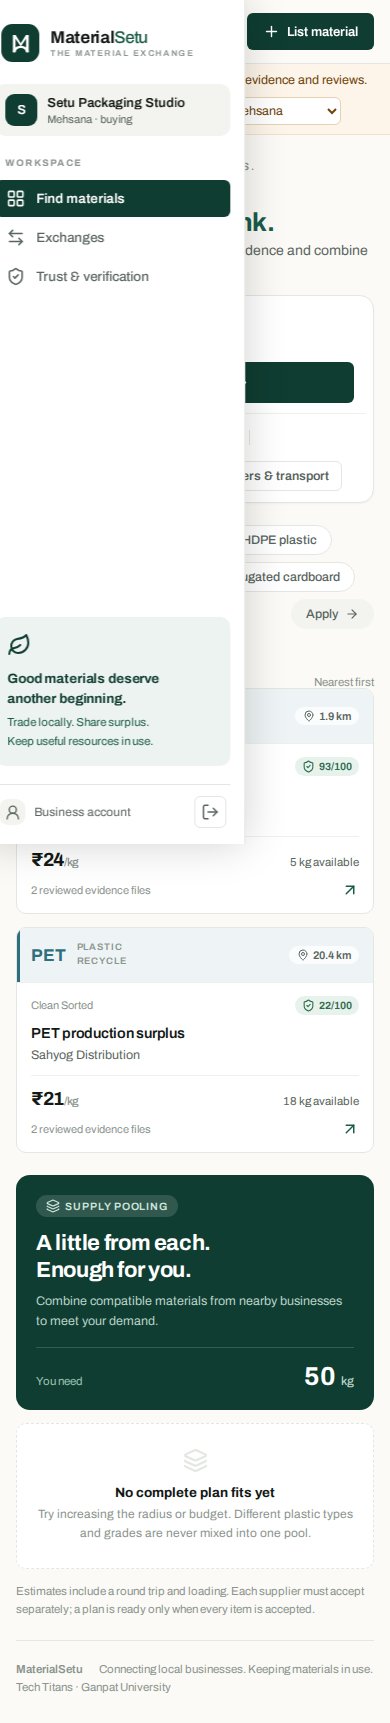
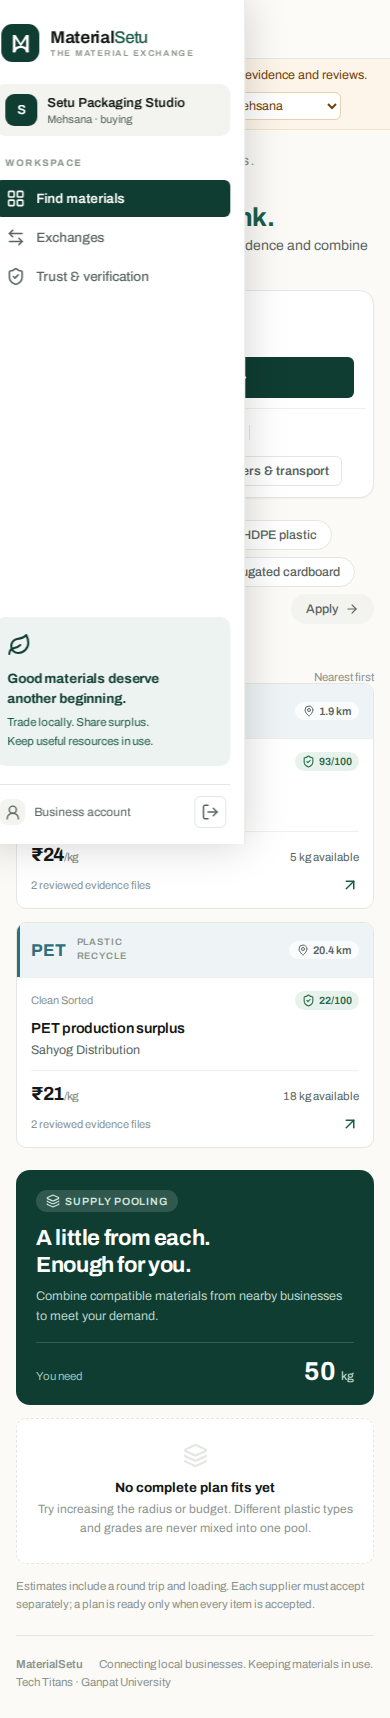
Show each account its own work and nothing else
The panels were filtered but not cleaned. A reviewer - an account that
exists to check other businesses' evidence - was still handed My
listings, Find materials, Exchanges and a Trust page for a score it can
never earn, plus a List material button in the header. A collector who
had said they only take material was offered the same button. Every one
of those is a door onto work that account cannot do.

So the trading workspace now belongs to the accounts that trade. A
reviewer sees one thing, the review centre, and an account page that
says what the account is for rather than offering a GST form it would
only be approving for itself. The header's List material appears for an
account that supplies, and for a visitor, where it is the invitation in.

A restored session also lands where it belongs rather than on whatever
the blank slate started on, and a tab left behind by a role change falls
back instead of rendering behind a navigation that no longer lists it.

Checked in a browser, four roles across both interfaces:
  generator  My listings, Requests, Trust       / Requests, Supply
  collector  Find materials, Exchanges, Trust   / Discover, Pools, Exchanges
  both       all four                           / all five
  reviewer   Review centre                      / Review

diff --git a/apps/web/src/main.tsx b/apps/web/src/main.tsx
@@ -183,6 +183,7 @@ function App() {
       setDemo(h.demo);
       setTaxonomy(tax);
       setUser(me);
+      if (me) setTab((current) => home(me, current));
       // Wave two, all at once, using the account we just resolved rather than
       // waiting for React to hand it back.
       loadedFor.current = me?.id ?? null;
@@ -227,15 +228,16 @@ function App() {
   }, [user]);
   /** Keeps you where you were, unless this account cannot go there. */
   function home(who: any, current: Tab): Tab {
+    if (who.role === "admin") return "admin";
     const k = who.kind ?? "both";
     const canBuy = k === "buyer" || k === "both";
     const canSell = k === "supplier" || k === "both";
     const blocked =
       (!canBuy && current === "market") ||
       (!canSell && current === "listings") ||
-      (who.role !== "admin" && current === "admin");
+      current === "admin";
     if (!blocked) return current;
-    return who.role === "admin" ? "admin" : canBuy ? "market" : "listings";
+    return canBuy ? "market" : "listings";
   }
   async function signIn(result: any) {
     setExchanges([]);
@@ -295,8 +297,22 @@ function App() {
   }
   // A visitor is treated as a buyer: browsing is the first thing anyone does.
   const kind = user?.kind ?? "buyer";
-  const buys = !user || kind === "buyer" || kind === "both";
-  const sells = !!user && (kind === "supplier" || kind === "both");
+  const reviewer = user?.role === "admin";
+  const buys = !reviewer && (!user || kind === "buyer" || kind === "both");
+  const sells = !reviewer && !!user && (kind === "supplier" || kind === "both");
+  // Belt and braces: state can outlive a role change, and a tab with no way
+  // back to it must not render behind the scenes.
+  const view: Tab =
+    (reviewer && tab !== "admin") ||
+    (!buys && tab === "market") ||
+    (!sells && tab === "listings") ||
+    (!reviewer && tab === "admin")
+      ? reviewer
+        ? "admin"
+        : buys
+          ? "market"
+          : "listings"
+      : tab;
   const mine = all.filter((l) => l.seller_id === user?.id);
   const available = data.listings.reduce((sum, l) => sum + l.available, 0);
   const isOwn = selected?.seller_id === user?.id;
@@ -351,20 +367,22 @@ function App() {
             [
               ...(sells ? [["listings", Package, "My listings"]] : []),
               ...(buys ? [["market", LayoutGrid, "Find materials"]] : []),
-              [
-                "exchanges",
-                ArrowLeftRight,
-                sells && !buys ? "Requests" : "Exchanges",
-              ],
-              ["trust", ShieldCheck, "Trust & verification"],
-              ...(user?.role === "admin"
-                ? [["admin", FileCheck2, "Review centre"]]
-                : []),
+              ...(reviewer
+                ? []
+                : [
+                    [
+                      "exchanges",
+                      ArrowLeftRight,
+                      sells && !buys ? "Requests" : "Exchanges",
+                    ],
+                    ["trust", ShieldCheck, "Trust & verification"],
+                  ]),
+              ...(reviewer ? [["admin", FileCheck2, "Review centre"]] : []),
             ] as any[]
           ).map(([id, Icon, title]) => (
             <button
               key={id}
-              className={tab === id ? "active" : ""}
+              className={view === id ? "active" : ""}
               onClick={() => {
                 setTab(id);
                 setMenu(false);
@@ -434,7 +452,7 @@ function App() {
                   listings: "My listings",
                   trust: "Trust & verification",
                   admin: "Review centre",
-                }[tab]
+                }[view]
               }
             </b>
           </span>
@@ -448,12 +466,14 @@ function App() {
                 Sign in
               </button>
             )}
-            <button
-              className="primary"
-              onClick={() => setModal(user ? "create" : "login")}
-            >
-              <Plus size={17} /> List material
-            </button>
+            {(sells || !user) && (
+              <button
+                className="primary"
+                onClick={() => setModal(user ? "create" : "login")}
+              >
+                <Plus size={17} /> List material
+              </button>
+            )}
           </div>
         </header>
         {demo && (
@@ -524,7 +544,7 @@ function App() {
               </button>
             </div>
           )}
-          {tab === "market" && (
+          {view === "market" && (
             <>
               <div className="page-heading">
                 <div>
@@ -851,7 +871,7 @@ function App() {
               </div>
             </>
           )}
-          {tab === "listings" && (
+          {view === "listings" && (
             <>
               <Title
                 eyebrow="YOUR SUPPLY"
@@ -892,7 +912,7 @@ function App() {
               )}
             </>
           )}
-          {tab === "exchanges" && (
+          {view === "exchanges" && (
             <>
               <Title
                 eyebrow="MOVE MATERIALS FORWARD"
@@ -965,7 +985,7 @@ function App() {
               )}
             </>
           )}
-          {tab === "trust" && (
+          {view === "trust" && (
             <>
               <Title
                 eyebrow="CONFIDENCE THROUGH EVIDENCE"
@@ -1086,7 +1106,7 @@ function App() {
               )}
             </>
           )}
-          {tab === "admin" && user?.role === "admin" && (
+          {view === "admin" && user?.role === "admin" && (
             <>
               <Title
                 eyebrow="REVIEW CENTRE"
@@ -1263,11 +1283,13 @@ function App() {
                             <td>
                               {b.city}
                               <small>
-                                {b.kind === "supplier"
-                                  ? "generates surplus"
-                                  : b.kind === "buyer"
-                                    ? "collects material"
-                                    : "generates and collects"}
+                                {b.role === "admin"
+                                  ? "does not trade"
+                                  : b.kind === "supplier"
+                                    ? "generates surplus"
+                                    : b.kind === "buyer"
+                                      ? "collects material"
+                                      : "generates and collects"}
                               </small>
                             </td>
                             <td>

diff --git a/apps/mobile/App.tsx b/apps/mobile/App.tsx
@@ -432,14 +432,21 @@ function MaterialSetu() {
     );
   const kind = user?.kind ?? "buyer";
   const reviewer = user?.role === "admin";
-  const buys = !user || kind === "buyer" || kind === "both";
-  const sells = !!user && (kind === "supplier" || kind === "both");
+  const buys = !reviewer && (!user || kind === "buyer" || kind === "both");
+  const sells = !reviewer && !!user && (kind === "supplier" || kind === "both");
   // A tab this account cannot use falls back rather than rendering empty.
   const hidden =
     (!buys && (tab === "discover" || tab === "pools")) ||
     (!sells && tab === "supply") ||
-    (!reviewer && tab === "review");
-  const view: Tab = hidden ? (buys ? "discover" : "exchanges") : tab;
+    (!reviewer && tab === "review") ||
+    (reviewer && tab === "exchanges");
+  const view: Tab = hidden
+    ? reviewer
+      ? "review"
+      : buys
+        ? "discover"
+        : "exchanges"
+    : tab;
   return (
     <SafeAreaView style={s.screen} edges={["top", "bottom"]}>
       <StatusBar style="dark" />
@@ -465,14 +472,16 @@ function MaterialSetu() {
               : "Mehsana · Local material exchange"}
           </Text>
         </View>
-        <Pressable
-          accessibilityRole="button"
-          accessibilityLabel="Add material listing"
-          style={s.add}
-          onPress={() => setSheet(user ? "create" : "login")}
-        >
-          <Text style={s.addText}>+</Text>
-        </Pressable>
+        {(sells || !user) && (
+          <Pressable
+            accessibilityRole="button"
+            accessibilityLabel="Add material listing"
+            style={s.add}
+            onPress={() => setSheet(user ? "create" : "login")}
+          >
+            <Text style={s.addText}>+</Text>
+          </Pressable>
+        )}
       </View>
       {demo && (
         <View style={s.demo}>
@@ -891,8 +900,15 @@ function MaterialSetu() {
                   <Text style={s.body}>
                     {user.email} · {user.city}
                   </Text>
-                  {ownTrust && <TrustCard trust={ownTrust} />}
+                  {!reviewer && ownTrust && <TrustCard trust={ownTrust} />}
+                  {reviewer && (
+                    <Text style={s.body}>
+                      Reviewer account. It checks other businesses' evidence and
+                      does not trade.
+                    </Text>
+                  )}
                 </View>
+                {!reviewer && (
                 <View style={s.card}>
                   <Text style={s.cardTitle}>What you use this for</Text>
                   <Text style={s.body}>
@@ -929,6 +945,8 @@ function MaterialSetu() {
                     ))}
                   </View>
                 </View>
+                )}
+                {!reviewer && (
                 <View style={s.card}>
                   <Text style={s.cardTitle}>GST review</Text>
                   <Text style={s.body}>
@@ -965,11 +983,6 @@ function MaterialSetu() {
                     onPress={() => sendEvidence("gst_document")}
                   />
                 </View>
-                {user.role === "admin" && (
-                  <Text style={s.notice}>
-                    Use the website Review centre to inspect evidence, review
-                    GST details and resolve disputes.
-                  </Text>
                 )}
                 <Button
                   title="Sign out"
@@ -999,7 +1012,11 @@ function MaterialSetu() {
                   ["pools", "▤", "Pools"],
                 ] as [Tab, string, string][])
               : []),
-            ["exchanges", "⇄", sells && !buys ? "Requests" : "Exchanges"],
+            ...(reviewer
+              ? []
+              : ([
+                  ["exchanges", "⇄", sells && !buys ? "Requests" : "Exchanges"],
+                ] as [Tab, string, string][])),
             ...(sells ? ([["supply", "+", "Supply"]] as [Tab, string, string][]) : []),
             ...(reviewer
               ? ([["review", "✓", "Review"]] as [Tab, string, string][])
